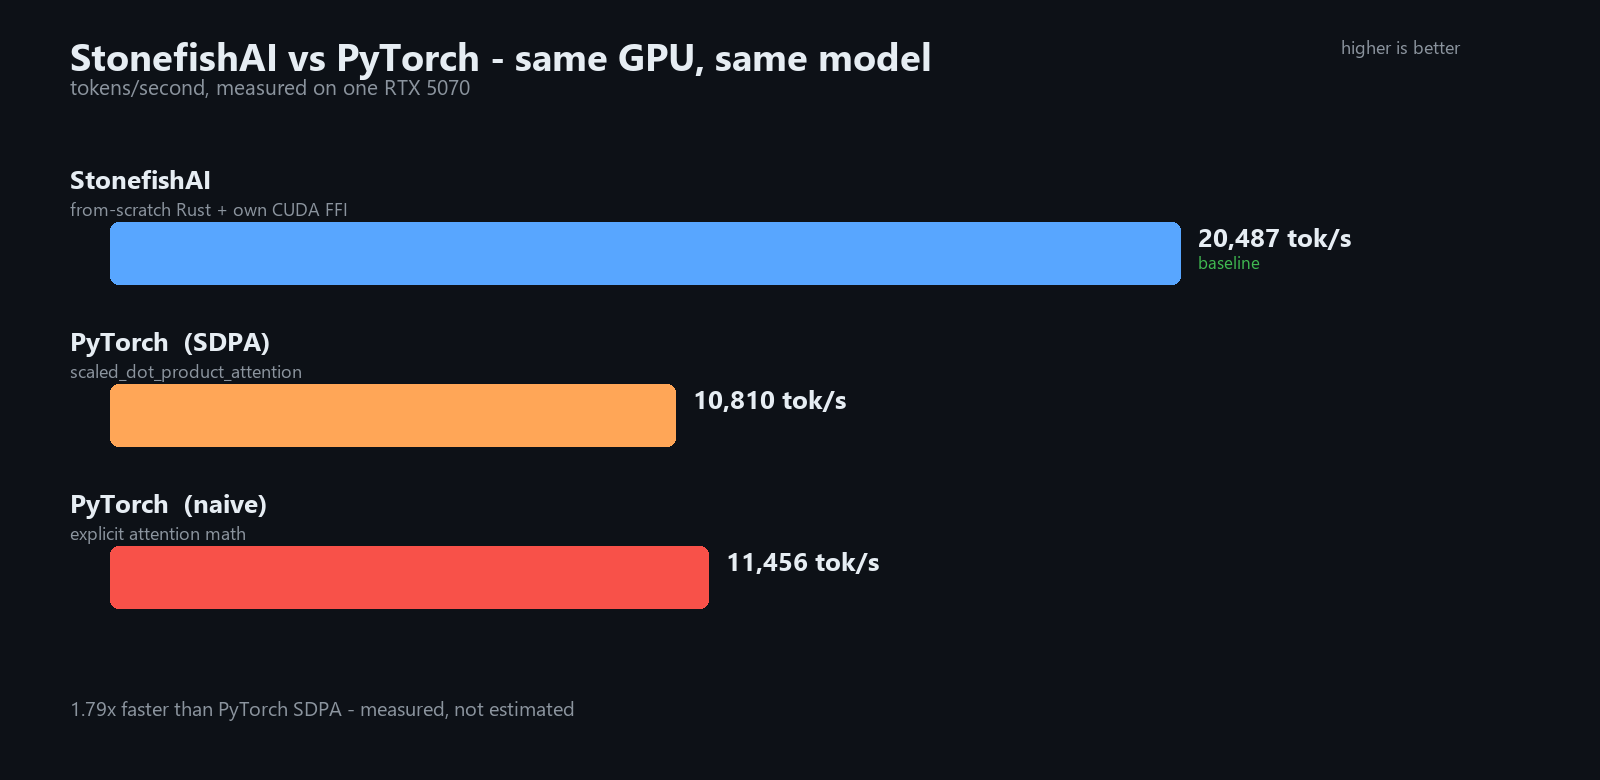
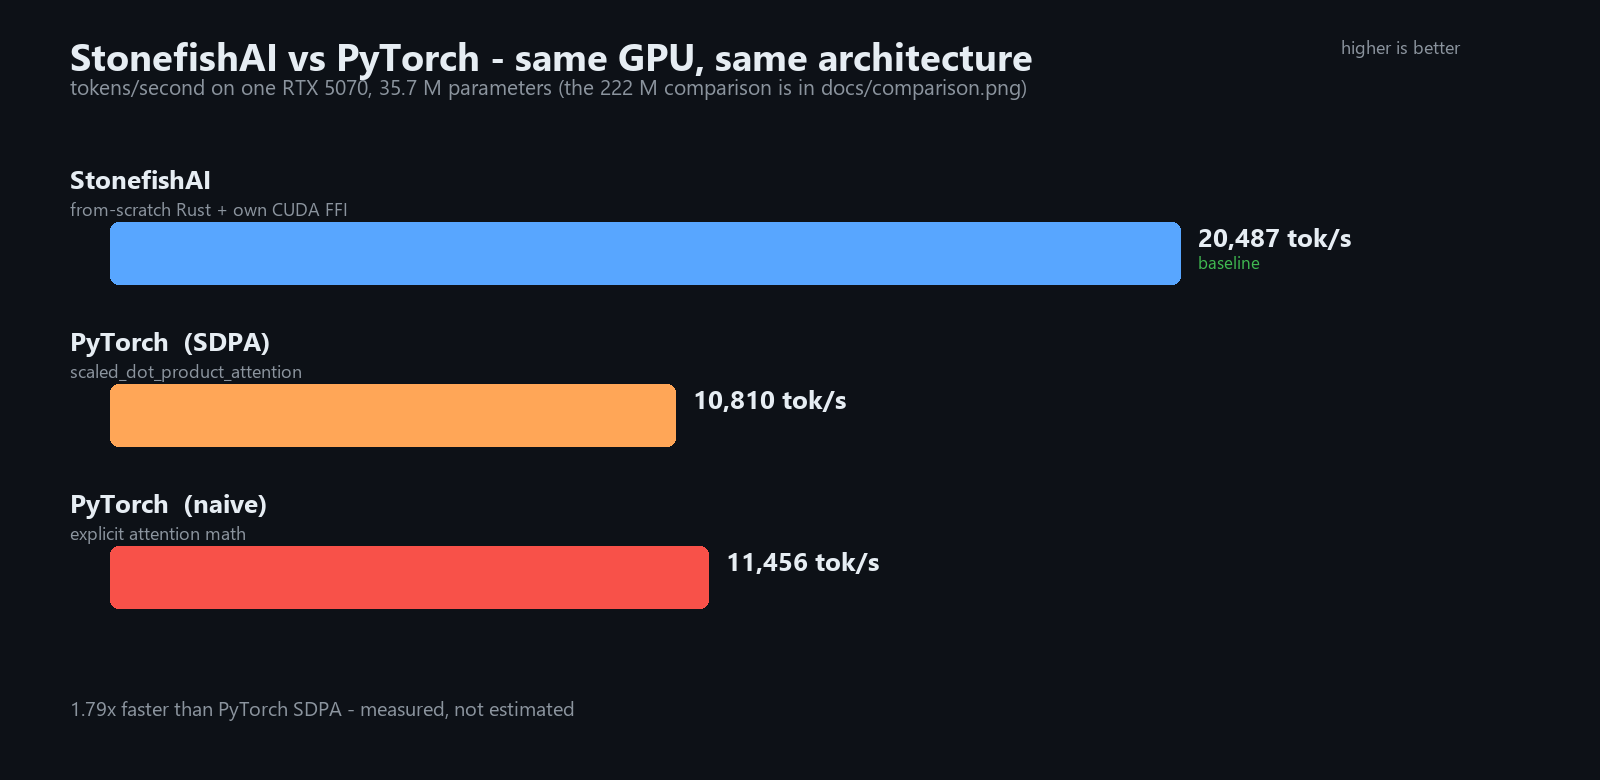
docs: the comparison chart never said which model it measured
docs/speedup.png shows 20,487 tok/s against PyTorch's 10,810 - and its subtitle
read "same GPU, same model", which invites the reader to compare it with the 222M
model that section 3 talks about. It was measured at 35.7 M. The prose below the
image does say so, but an image travels on its own: on social media, in a link
preview, in a search result, that chart says 20k tok/s next to a 10.7k tok/s
training run and looks wrong.

The chart now states it in the subtitle and points at where the 222M comparison
will live:

  tokens/second on one RTX 5070, 35.7 M parameters
  (the 222 M comparison is in docs/comparison.png)

The alt text carries the same qualifier for readers who never see the image, and
section 7.5 says the 222M measurement will be published as comparison.png.

Changed region(s): [[0.125, 0.0615, 0.6562, 0.1231]]

diff --git a/tools/make_charts.py b/tools/make_charts.py
@@ -343,8 +343,9 @@ def chart_speedup(out_dir):
     best = max(r[1] for r in rows)
 
     img = canvas(
-        "StonefishAI vs PyTorch - same GPU, same model",
-        "tokens/second, measured on one RTX 5070",
+        "StonefishAI vs PyTorch - same GPU, same architecture",
+        "tokens/second on one RTX 5070, 35.7 M parameters "
+        "(the 222 M comparison is in docs/comparison.png)",
         "higher is better",
     )
     d = ImageDraw.Draw(img)

diff --git a/README-Tr.md b/README-Tr.md
@@ -440,7 +440,7 @@ Kayıp eğrisi: 9,70 (rastgele) → **~1,97** (%90'da, hâlâ düşüyor).
 
 ### 7.5 PyTorch ile karşılaştırma — aynı GPU, aynı mimari
 
-![StonefishAI vs PyTorch](docs/speedup.png)
+![StonefishAI vs PyTorch - 35,7 M parametreyle olculdu](docs/speedup.png)
 
 `tools/torch_bench.py` v2 mimarisini (RMSNorm + SwiGLU + RoPE + weight tying)
 birebir PyTorch'a kurar; aynı veri, aynı batch, aynı GPU. Üç ölçüm de aynı
@@ -455,7 +455,7 @@ makinede, aynı ısınma turundan sonra alındı.
 Fark, PyTorch'un Python döngüsünden değil, **bellek trafiğinden** geliyor:
 fused causal attention tek çekirdekte çalışıp B×S×S skor matrisini diske hiç
 yazmıyor. (35,7 M parametreyle ölçüldü; 222 M ile ölçüm eğitim bitince
-tekrarlanacak.)
+tekrarlanacak ve `docs/comparison.png` olarak yayınlanacak.)
 
 ---
 

diff --git a/README-Eng.md b/README-Eng.md
@@ -443,7 +443,7 @@ Loss curve: 9.70 (random) → **~1.97** (at 90 %, still falling).
 
 ### 7.5 Against PyTorch - same GPU, same architecture
 
-![StonefishAI vs PyTorch](docs/speedup.png)
+![StonefishAI vs PyTorch - measured at 35.7 M parameters](docs/speedup.png)
 
 `tools/torch_bench.py` rebuilds the v2 architecture (RMSNorm + SwiGLU + RoPE +
 weight tying) exactly in PyTorch; same data, same batch, same GPU. All three
